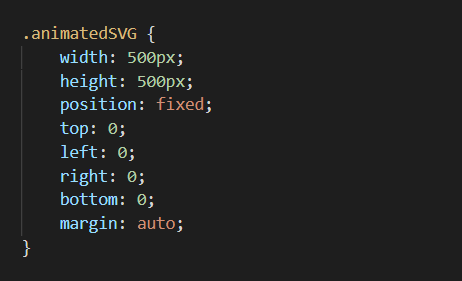
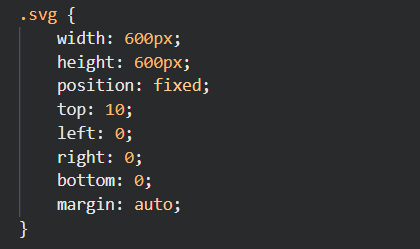
project complete

Changed region(s): [[0.031, 0.0281, 0.4952, 0.8715], [0.031, 0.8434, 0.0619, 0.9558]]

diff --git a/index.html b/index.html
@@ -21,42 +21,43 @@
         </nav>
     </header>
     <div class="container">
-        <svg class="animatedSVG" xmlns="http://www.w3.org/2000/svg" viewBox="0 0 100 125" x="0px" y="0px">
-            <g stroke="#000" stroke-width="1" fill="none">
-                <path d="M89.68,14.56H10.32A5.33,5.33,0,0,0,5,19.89V66.58a5.33,5.33,0,0,0,5.32,5.32H41.78v4.5A3.91,3.91,0,0,1,41,78.75l-3.28,4.36a1.46,1.46,0,0,0,1.16,2.33H61.13a1.46,1.46,0,0,0,1.16-2.33L59,78.75a3.91,3.91,0,0,1-.79-2.35V71.9H89.68A5.33,5.33,0,0,0,95,66.58V19.89A5.33,5.33,0,0,0,89.68,14.56ZM10.32,17.47H89.68a2.42,2.42,0,0,1,2.42,2.42V60.4H7.9V19.89A2.42,2.42,0,0,1,10.32,17.47Zm46.37,63,1.53,2H41.78l1.53-2a6.83,6.83,0,0,0,1.37-4.1V71.9H55.32v4.5A6.83,6.83,0,0,0,56.69,80.5Zm33-11.5H10.32A2.43,2.43,0,0,1,7.9,66.58V63.3H92.1v3.28A2.43,2.43,0,0,1,89.68,69Z"
-                />
-                <path d="M50,23.78a1.55,1.55,0,1,0-1.55-1.55A1.54,1.54,0,0,0,50,23.78Z" />
-                <path d="M43.13,43a1.44,1.44,0,0,0,1-.42l5.17-5.16a1.46,1.46,0,0,0-2.06-2.06L42.1,40.5a1.44,1.44,0,0,0,0,2A1.46,1.46,0,0,0,43.13,43Z"
-                />
-                <path d="M55.85,43.91l-5.17,5.17a1.45,1.45,0,1,0,2.06,2.05L57.9,46a1.45,1.45,0,0,0-2-2.06Z" />
-                <path d="M43.35,49.88a1.44,1.44,0,0,0,2,0L56.65,38.63a1.45,1.45,0,0,0-2-2.05L43.35,47.83A1.44,1.44,0,0,0,43.35,49.88Z"
-                />
-            </g>
-        </svg>
+        <svg class="svg" xmlns="http://www.w3.org/2000/svg" viewBox="0 0 920 1150" version="1.1" x="0px" y="0px">
+            <path fill="none" stroke="black" stroke-width="4" id="svgPath" class="animate" opacity="1.00" d=" M 390.05 144.58 C 403.06 143.38 416.23 145.49 428.55 149.70 C 440.73 154.22 451.73 161.48 461.21 170.31 C 470.40 161.59 481.17 154.52 493.02 149.98 C 505.19 145.68 518.20 143.53 531.11 144.46 C 543.66 145.75 556.02 150.20 566.18 157.75 C 571.90 161.55 576.66 166.55 581.35 171.51 C 588.84 180.02 595.83 189.18 600.33 199.66 C 607.66 216.00 608.88 234.24 608.39 251.91 C 607.82 288.63 597.73 324.78 581.59 357.62 C 575.65 370.48 568.58 382.79 561.00 394.76 C 570.86 402.66 580.60 410.73 590.18 418.97 C 613.66 401.37 639.25 385.81 667.55 377.39 C 681.59 372.78 697.55 371.01 711.54 376.70 C 723.09 382.40 732.41 393.18 735.45 405.81 C 750.07 402.53 765.80 401.65 780.10 406.86 C 792.05 410.82 805.04 417.05 809.74 429.65 C 820.67 424.25 833.44 423.52 845.15 426.58 C 853.35 428.54 861.39 431.29 868.92 435.13 C 875.87 438.52 884.05 440.04 891.65 438.31 C 893.77 436.58 893.71 432.57 896.89 431.83 C 902.02 430.83 906.65 436.15 906.01 441.12 C 906.02 446.70 900.80 450.43 895.91 451.79 C 889.38 453.46 882.48 453.14 875.88 452.15 C 866.27 450.65 858.23 444.67 848.94 442.16 C 841.22 440.03 833.11 437.56 825.06 439.32 C 820.33 440.17 815.94 442.16 811.60 444.13 C 811.17 451.71 808.71 459.58 803.02 464.88 C 798.36 469.39 791.61 473.39 784.95 471.16 C 778.70 468.88 777.11 460.94 779.37 455.26 C 782.58 446.82 790.00 440.94 797.22 435.96 C 793.65 425.98 782.56 422.58 773.47 419.52 C 761.43 415.31 748.48 417.19 736.37 419.97 C 733.66 438.67 723.07 455.57 708.94 467.83 C 699.93 474.96 689.57 481.03 678.09 482.88 C 667.41 484.31 658.24 473.24 659.59 463.02 C 660.61 452.52 667.67 444.00 674.85 436.82 C 687.88 423.85 704.24 414.30 721.92 409.28 C 719.71 401.00 713.86 393.77 706.28 389.81 C 698.06 386.14 688.70 386.64 680.09 388.50 C 650.86 395.37 624.78 411.18 600.59 428.45 C 615.25 441.47 629.03 455.79 639.61 472.38 C 649.30 487.29 653.37 505.35 653.03 523.00 C 653.38 536.05 649.85 548.86 644.80 560.80 C 635.66 578.88 621.95 596.15 602.42 603.44 C 591.51 607.96 579.27 607.89 567.96 605.01 C 554.10 601.23 541.00 594.39 530.34 584.73 C 519.70 574.22 511.84 560.21 510.99 545.06 C 509.45 524.57 517.49 504.92 527.33 487.39 C 540.16 464.22 558.31 444.33 578.80 427.69 C 570.43 420.48 561.81 413.58 553.35 406.48 C 526.86 445.18 497.41 481.71 469.78 519.57 C 481.68 536.58 493.58 553.77 502.24 572.72 C 514.05 599.02 519.96 628.13 518.30 656.96 C 517.53 668.14 515.27 679.16 512.14 689.91 C 508.85 700.16 505.50 710.56 499.58 719.65 C 493.39 729.18 485.73 737.98 476.14 744.20 C 472.36 746.74 468.64 749.41 464.58 751.50 C 462.65 752.47 460.26 752.62 458.29 751.70 C 443.67 744.13 430.75 732.98 422.18 718.81 C 414.42 705.82 410.13 691.11 406.78 676.45 C 401.91 654.04 403.17 630.68 408.20 608.42 C 413.22 585.42 423.14 563.67 435.98 544.01 C 441.19 535.65 447.12 527.70 452.33 519.39 C 443.32 506.58 433.60 494.29 424.25 481.73 C 410.59 464.02 397.39 445.97 384.09 427.99 C 379.08 420.85 373.84 413.86 369.17 406.48 C 360.56 413.45 351.92 420.41 343.60 427.73 C 371.98 450.70 395.68 480.49 407.58 515.32 C 411.71 528.81 413.13 543.56 409.13 557.25 C 404.42 572.32 393.89 585.35 380.44 593.53 C 368.88 600.77 355.74 606.02 342.04 606.93 C 329.91 607.94 317.84 603.74 307.76 597.20 C 294.73 588.61 285.26 575.65 278.14 561.96 C 266.90 538.79 266.59 511.18 275.15 487.11 C 280.86 472.95 290.26 460.64 300.43 449.40 C 307.23 442.09 314.11 434.81 321.78 428.40 C 301.79 414.42 280.96 401.09 257.77 393.08 C 246.68 389.35 234.92 385.58 223.10 387.67 C 211.96 389.24 203.40 398.87 200.33 409.30 C 220.90 415.06 239.74 427.04 253.49 443.40 C 259.04 449.95 263.49 458.24 262.72 467.09 C 261.73 474.30 256.40 481.09 249.15 482.73 C 243.16 483.77 237.36 481.32 231.88 479.23 C 208.01 468.86 189.92 445.74 186.00 419.97 C 180.38 418.85 174.77 417.54 169.03 417.19 C 156.96 416.11 144.94 419.84 134.40 425.50 C 130.08 427.65 126.85 431.42 125.06 435.87 C 132.05 440.70 138.97 446.38 142.65 454.23 C 144.37 458.95 144.77 465.08 140.80 468.82 C 136.91 473.12 130.18 472.23 125.60 469.57 C 116.27 464.77 110.93 454.42 110.71 444.13 C 103.36 440.63 95.22 437.68 86.96 439.03 C 77.48 440.51 68.20 443.38 59.63 447.71 C 49.90 452.70 38.49 454.02 27.78 452.15 C 22.40 451.02 16.42 447.12 16.44 441.02 C 15.98 436.02 20.62 430.50 25.89 431.92 C 28.63 432.95 28.85 436.33 30.63 438.31 C 38.96 440.19 47.81 438.22 55.25 434.24 C 67.34 428.71 80.47 424.42 93.90 424.81 C 100.37 425.16 106.73 426.87 112.56 429.68 C 117.25 416.87 130.62 410.67 142.70 406.70 C 156.88 401.59 172.40 402.68 186.90 405.72 C 189.90 393.60 198.48 383.25 209.39 377.36 C 216.34 373.84 224.28 373.04 231.96 373.23 C 239.47 373.34 246.91 374.77 254.02 377.16 C 282.59 385.55 308.47 401.18 332.12 418.98 C 341.76 410.81 351.39 402.63 361.29 394.77 C 349.28 375.96 339.14 355.97 330.92 335.22 C 320.09 307.82 314.11 278.48 313.83 249.00 C 313.85 236.52 314.27 223.84 317.71 211.76 C 322.13 194.54 332.77 179.58 345.20 167.16 C 356.95 154.78 373.03 146.43 390.05 144.58 M 357.05 175.06 C 349.36 182.55 342.43 190.91 337.25 200.34 C 331.14 211.57 328.62 224.39 327.97 237.06 C 326.53 265.87 331.55 294.81 340.94 322.00 C 349.14 344.32 359.61 365.81 372.31 385.92 C 387.72 373.57 403.11 361.18 418.01 348.20 C 430.08 337.21 442.63 326.48 452.46 313.34 C 447.19 304.64 442.07 295.76 439.00 286.01 C 430.79 263.57 427.57 238.56 434.14 215.30 C 437.34 202.62 444.20 191.23 452.02 180.89 C 449.00 178.25 446.00 175.59 442.77 173.21 C 429.40 163.17 412.62 158.22 395.99 158.10 C 381.52 158.79 367.44 164.98 357.05 175.06 M 470.41 180.86 C 480.50 194.11 488.29 209.46 490.53 226.11 C 493.71 246.09 490.29 266.54 483.47 285.42 C 480.39 295.36 475.29 304.48 469.85 313.30 C 479.18 325.77 490.97 336.07 502.42 346.52 C 517.91 360.08 533.90 373.04 549.99 385.87 C 554.47 378.96 558.47 371.75 562.47 364.56 C 572.18 345.66 580.94 326.14 586.48 305.57 C 591.80 285.85 594.68 265.44 594.72 245.00 C 594.35 232.07 593.17 218.87 588.12 206.82 C 583.07 194.55 574.44 184.15 565.08 174.92 C 552.55 162.83 534.48 156.18 517.11 158.67 C 499.57 160.46 483.01 168.60 470.41 180.86 M 461.21 191.96 C 455.91 199.77 450.74 207.92 448.27 217.12 C 445.95 224.20 444.96 231.63 444.53 239.05 C 443.99 249.70 446.28 260.22 448.74 270.51 C 451.83 280.85 455.33 291.23 461.20 300.37 C 465.70 293.05 469.02 285.09 471.55 276.90 C 477.79 258.19 480.34 237.57 474.45 218.42 C 472.03 208.74 466.73 200.15 461.21 191.96 M 427.56 358.45 C 412.09 371.96 396.15 384.94 379.97 397.60 C 405.67 435.20 433.92 470.98 461.22 507.40 C 488.27 470.81 516.75 435.26 542.33 397.62 C 530.00 388.03 517.96 378.08 505.95 368.10 C 490.30 354.52 474.29 341.07 461.13 324.99 C 451.32 337.43 439.29 347.88 427.56 358.45 M 679.15 452.91 C 676.14 456.43 674.15 460.69 673.19 465.21 C 674.00 466.59 674.88 467.95 675.84 469.25 C 697.88 464.17 715.01 445.46 721.30 424.15 C 705.05 429.81 690.09 439.57 679.15 452.91 M 201.01 424.04 C 206.80 444.28 222.49 461.93 242.81 468.27 C 244.40 468.68 246.68 469.59 247.75 467.77 C 249.37 465.81 248.73 463.18 247.93 461.03 C 245.58 454.68 240.65 449.79 235.92 445.15 C 226.03 435.63 213.83 428.78 201.01 424.04 M 540.23 493.16 C 532.03 507.83 524.66 523.83 524.74 540.98 C 524.85 553.59 530.91 565.53 539.73 574.32 C 548.92 582.57 560.19 588.44 572.13 591.55 C 577.63 592.61 583.36 593.95 588.95 592.64 C 601.89 590.48 613.23 582.41 621.07 572.10 C 632.67 558.12 639.20 540.11 639.27 521.96 C 638.96 507.62 636.07 492.86 628.20 480.66 C 617.90 464.02 603.86 450.15 589.48 437.05 C 570.02 452.73 552.46 471.23 540.23 493.16 M 298.26 474.24 C 293.17 481.97 288.03 490.01 286.16 499.23 C 280.15 520.46 282.91 544.34 294.87 563.04 C 297.75 568.02 301.43 572.48 305.20 576.81 C 313.70 585.95 325.43 592.42 338.02 593.21 C 352.11 592.70 365.58 587.03 376.97 578.95 C 385.88 572.58 392.47 563.17 395.81 552.77 C 399.51 539.88 396.88 526.12 392.08 513.88 C 380.09 483.32 358.47 457.25 332.79 437.12 C 320.25 448.46 308.24 460.54 298.26 474.24 M 461.19 531.60 C 450.15 547.51 439.21 563.67 431.57 581.55 C 424.22 598.48 419.94 616.63 418.16 634.97 C 416.44 649.72 418.28 664.68 421.83 679.03 C 425.69 694.95 431.53 711.04 443.00 723.12 C 448.15 728.93 454.72 733.15 461.20 737.32 C 466.58 733.76 472.08 730.27 476.72 725.75 C 484.37 718.28 490.38 709.14 494.18 699.14 C 501.26 680.42 505.67 660.36 504.62 640.25 C 503.07 619.62 498.64 599.04 490.12 580.12 C 482.53 562.81 471.80 547.16 461.19 531.60 Z"
+            /></svg>
     </div>
     
     <script src="http://code.jquery.com/jquery-latest.min.js"></script>
-    <script src="jquery.drawsvg.js"></script>
 
     <script>
-        var $doc = $(document),
-            $win = $(window),
-            $svg = $('svg').drawsvg(),
-            max = $doc.height() - $win.height();
 
-        $win.on('scroll', function () {
-            var p = $win.scrollTop() / max;
-            $svg.drawsvg('progress', p);
+        // Get the id of the <path> element and the length of <path>
+        const svg = document.getElementById("svgPath");
+        const length = svg.getTotalLength();
+
+        // The start position of the drawing
+        svg.style.strokeDasharray = length;
+        
+        // Hide the svg by offsetting dash. Remove this line to show the svg before scroll draw
+        svg.style.strokeDashoffset = length;
+
+        // Find scroll percentage on scroll (using cross-browser properties), and offset dash same amount as percentage scrolled
+        $(window).on("scroll", function () {
+            const scrollpercent = (document.body.scrollTop + document.documentElement.scrollTop) / (document.documentElement.scrollHeight - document.documentElement.clientHeight);
+
+            const draw = length * scrollpercent;
+
+            // Reverse the drawing (when scrolling upwards)
+            svg.style.strokeDashoffset = length - draw;
+
         });
-    
+
     </script>
    
 </body>
 
 <!-- 
     SOURCES
-    http://leocs.me/jquery-drawsvg/#features
-    https://codepen.io/lcdsantos/pen/zvGQYB
+    https://www.w3schools.com/howto/howto_js_scrolldrawing.asp
     https://www.awwwards.com/websites/svg/?page=3
  -->
 </html>

diff --git a/how.html b/how.html
@@ -96,18 +96,11 @@
             </div>
         </section>
         <section class="step step2">
-            <h2>Step 2: Create HTML, CSS, and JavaScript skeleton</h2>
-        </section>
-        <section class="step step3">
-            <h2>Step 3: Load the jQuery DrawSVG plugin</h2>
-            <a href="http://leocs.me/jquery-drawsvg/#features">Plugin Link</a>
-        </section>
-        <section class="step step4">
-            <h2>Step 4: Apply your styles</h2>
+            <h2>Step 2: Apply your styles</h2>
             <img src="assets/cssSnippet.png" alt="css snippet for the jQuery DrawSVG plugin">
         </section>
-        <section class="step step5">
-            <h2>Step 5: Write your scripts</h2>
+        <section class="step step3">
+            <h2>Step 3: Write your scripts</h2>
             <img src="assets/jsSnippet.PNG" alt="js snippet for the jquery DrawSVG plugin">
         </section>
         

diff --git a/styles/style.css b/styles/style.css
@@ -20,7 +20,7 @@ body {
 }
 
 .container {
-    height: 2000px;
+    height: 800px;
 }
 
 h1 {
@@ -38,7 +38,7 @@ h2 {
 }
 
 header {
-    background: #a8ff78;
+    background: white;
     padding: 10px 0;
     position: fixed;
     top: 0;
@@ -64,7 +64,7 @@ nav a {
 }
 
 
-.animatedSVG {
+.svg {
     width: 500px;
     height: 500px;
     position: fixed;
